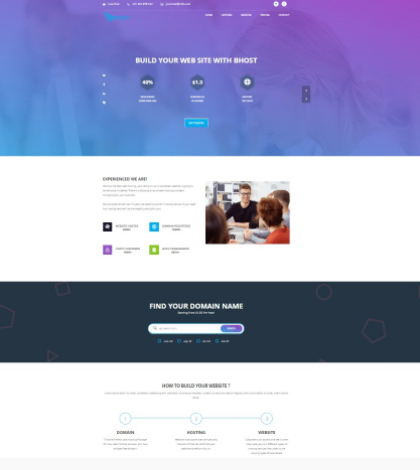
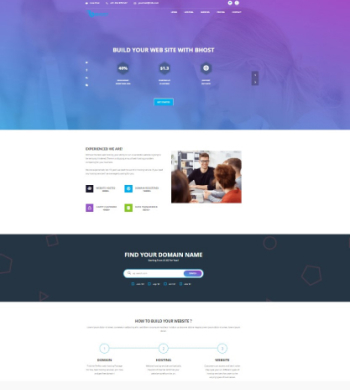
add section portfolio

diff --git a/src/index.html b/src/index.html
@@ -76,29 +76,29 @@
         <div class="container">
             <h2 class="subtitle">Портфолио</h2>
             <div class="portfolio__list">
+                <a href="https://komplex-media.com/" class="portfolio__link" target="_blank">
+                    <img class="portfolio__image" src="/src/image/Screenshot_12.jpg" alt="site" class="site">
+                </a>
+                <a href="http://xn--80aebufbdkxu6k.xn--p1ai/" class="portfolio__link" target="_blank">
+                    <img class="portfolio__image" src="/src/image/Screenshot_11.jpg" alt="site" class="site">
+                </a>
                 <a href="https://pichuzhkinaen.github.io/BHosting-4" class="portfolio__link" target="_blank">
-                    <img src="/src/image/Screenshot_10.jpg" alt="site" class="site">
+                    <img class="portfolio__image" src="/src/image/Screenshot_10.jpg" alt="site" class="site">
                 </a>
                 <a href="https://pichuzhkinaen.github.io/CraftFurniture" class="portfolio__link" target="_blank">
-                    <img src="/src/image/Screenshot_9.jpg" alt="site" class="site">
+                    <img class="portfolio__image" src="/src/image/Screenshot_9.jpg" alt="site" class="site">
                 </a>
                 <a href="https://pichuzhkinaen.github.io/shoes" class="portfolio__link" target="_blank">
-                    <img src="/src/image/Screenshot_8.jpg" alt="site" class="site">
+                    <img class="portfolio__image" src="/src/image/Screenshot_8.jpg" alt="site" class="site">
                 </a>
                 <a href="https://pichuzhkinaen.github.io/Personal_registrars/" class="portfolio__link" target="_blank">
-                    <img src="/src/image/Screenshot_1.jpg" alt="site" class="site">
+                    <img class="portfolio__image" src="/src/image/Screenshot_1.jpg" alt="site" class="site">
                 </a>
                 <a href="https://pichuzhkinaen.github.io/LED-lamp/" class="portfolio__link" target="_blank">
-                    <img src="/src/image/Screenshot_2.jpg" alt="site" class="site">
+                    <img class="portfolio__image" src="/src/image/Screenshot_2.jpg" alt="site" class="site">
                 </a>
                 <a href="https://pichuzhkinaen.github.io/Book Shop/" class="portfolio__link" target="_blank">
-                    <img src="/src/image/Screenshot_3.jpg" alt="site" class="site">
-                </a>
-                <a href="https://pichuzhkinaen.github.io/Online-Shop" class="portfolio__link" target="_blank">
-                    <img src="/src/image/Screenshot_4.jpg" alt="site" class="site">
-                </a>
-                <a href="https://pichuzhkinaen.github.io/Single_page" class="portfolio__link" target="_blank">
-                    <img src="/src/image/Screenshot_5.jpg" alt="site" class="site">
+                    <img class="portfolio__image" src="/src/image/Screenshot_3.jpg" alt="site" class="site">
                 </a>
             </div>
             <button class="portfolio__button">Увидеть больше</button>

diff --git a/src/css/style.css b/src/css/style.css
@@ -184,6 +184,7 @@ h1, h2, h3 {
 }
 
 .portfolio {
+  background: #E9EAEC;
   padding: 100px 0 100px 0;
 }
 
@@ -191,19 +192,45 @@ h1, h2, h3 {
   display: -webkit-box;
   display: -ms-flexbox;
   display: flex;
-  -webkit-box-pack: justify;
-      -ms-flex-pack: justify;
-          justify-content: space-between;
+  -webkit-box-pack: start;
+      -ms-flex-pack: start;
+          justify-content: flex-start;
   -webkit-box-align: start;
       -ms-flex-align: start;
           align-items: flex-start;
   -ms-flex-wrap: wrap;
       flex-wrap: wrap;
   margin-top: 30px;
+  margin-left: -36px;
+  margin-right: -36px;
 }
 
 .portfolio__link {
   -webkit-box-shadow: 0 0 14px #dcdcdc;
           box-shadow: 0 0 14px #dcdcdc;
+  margin: 0 36px 36px;
+  -webkit-transition: -webkit-box-shadow .3s ease;
+  transition: -webkit-box-shadow .3s ease;
+  transition: box-shadow .3s ease;
+  transition: box-shadow .3s ease, -webkit-box-shadow .3s ease;
+}
+
+.portfolio__link:hover {
+  -webkit-box-shadow: 0 0 7px #01989B;
+          box-shadow: 0 0 7px #01989B;
+}
+
+.portfolio__image {
+  display: block;
+}
+
+.portfolio__button {
+  display: block;
+  font-size: 18px;
+  color: #01989B;
+  background: #fff;
+  border: 2px solid #01989B;
+  padding: 8px 30px;
+  margin: 20px auto 0;
 }
 /*# sourceMappingURL=style.css.map */

diff --git a/src/sass/style.scss b/src/sass/style.scss
@@ -122,15 +122,45 @@ h1, h2, h3 {
     }
 }
 .portfolio {
+    background: #E9EAEC;
     padding: 100px 0 100px 0;
     &__list {
         display: flex;
-        justify-content: space-between;
+        justify-content: flex-start;
         align-items: flex-start;
         flex-wrap: wrap;
         margin-top: 30px;
+        margin-left: -36px;
+        margin-right: -36px;
     }
     &__link {
         box-shadow: 0 0 14px #dcdcdc;
+        margin: 0 36px 36px;
+        transition: box-shadow .3s ease;
+        &:hover {
+            box-shadow: 0 0 7px $color-main;
+        }
+    }
+    &__image {
+        // position: relative;
+        display: block;
+        // &::before {
+        //     position: absolute;
+        //     top: 0;
+        //     left: 0;
+        //     content: '';
+        //     width: 100%;
+        //     height: 100%;
+        //     background-color: rgba(160, 134, 135, .5);
+        // }
+    }
+    &__button {
+        display: block;
+        font-size: 18px;
+        color: $color-main;
+        background: $color-white;
+        border: 2px solid $color-main;
+        padding: 8px 30px;
+        margin: 20px auto 0;
     }
 }
